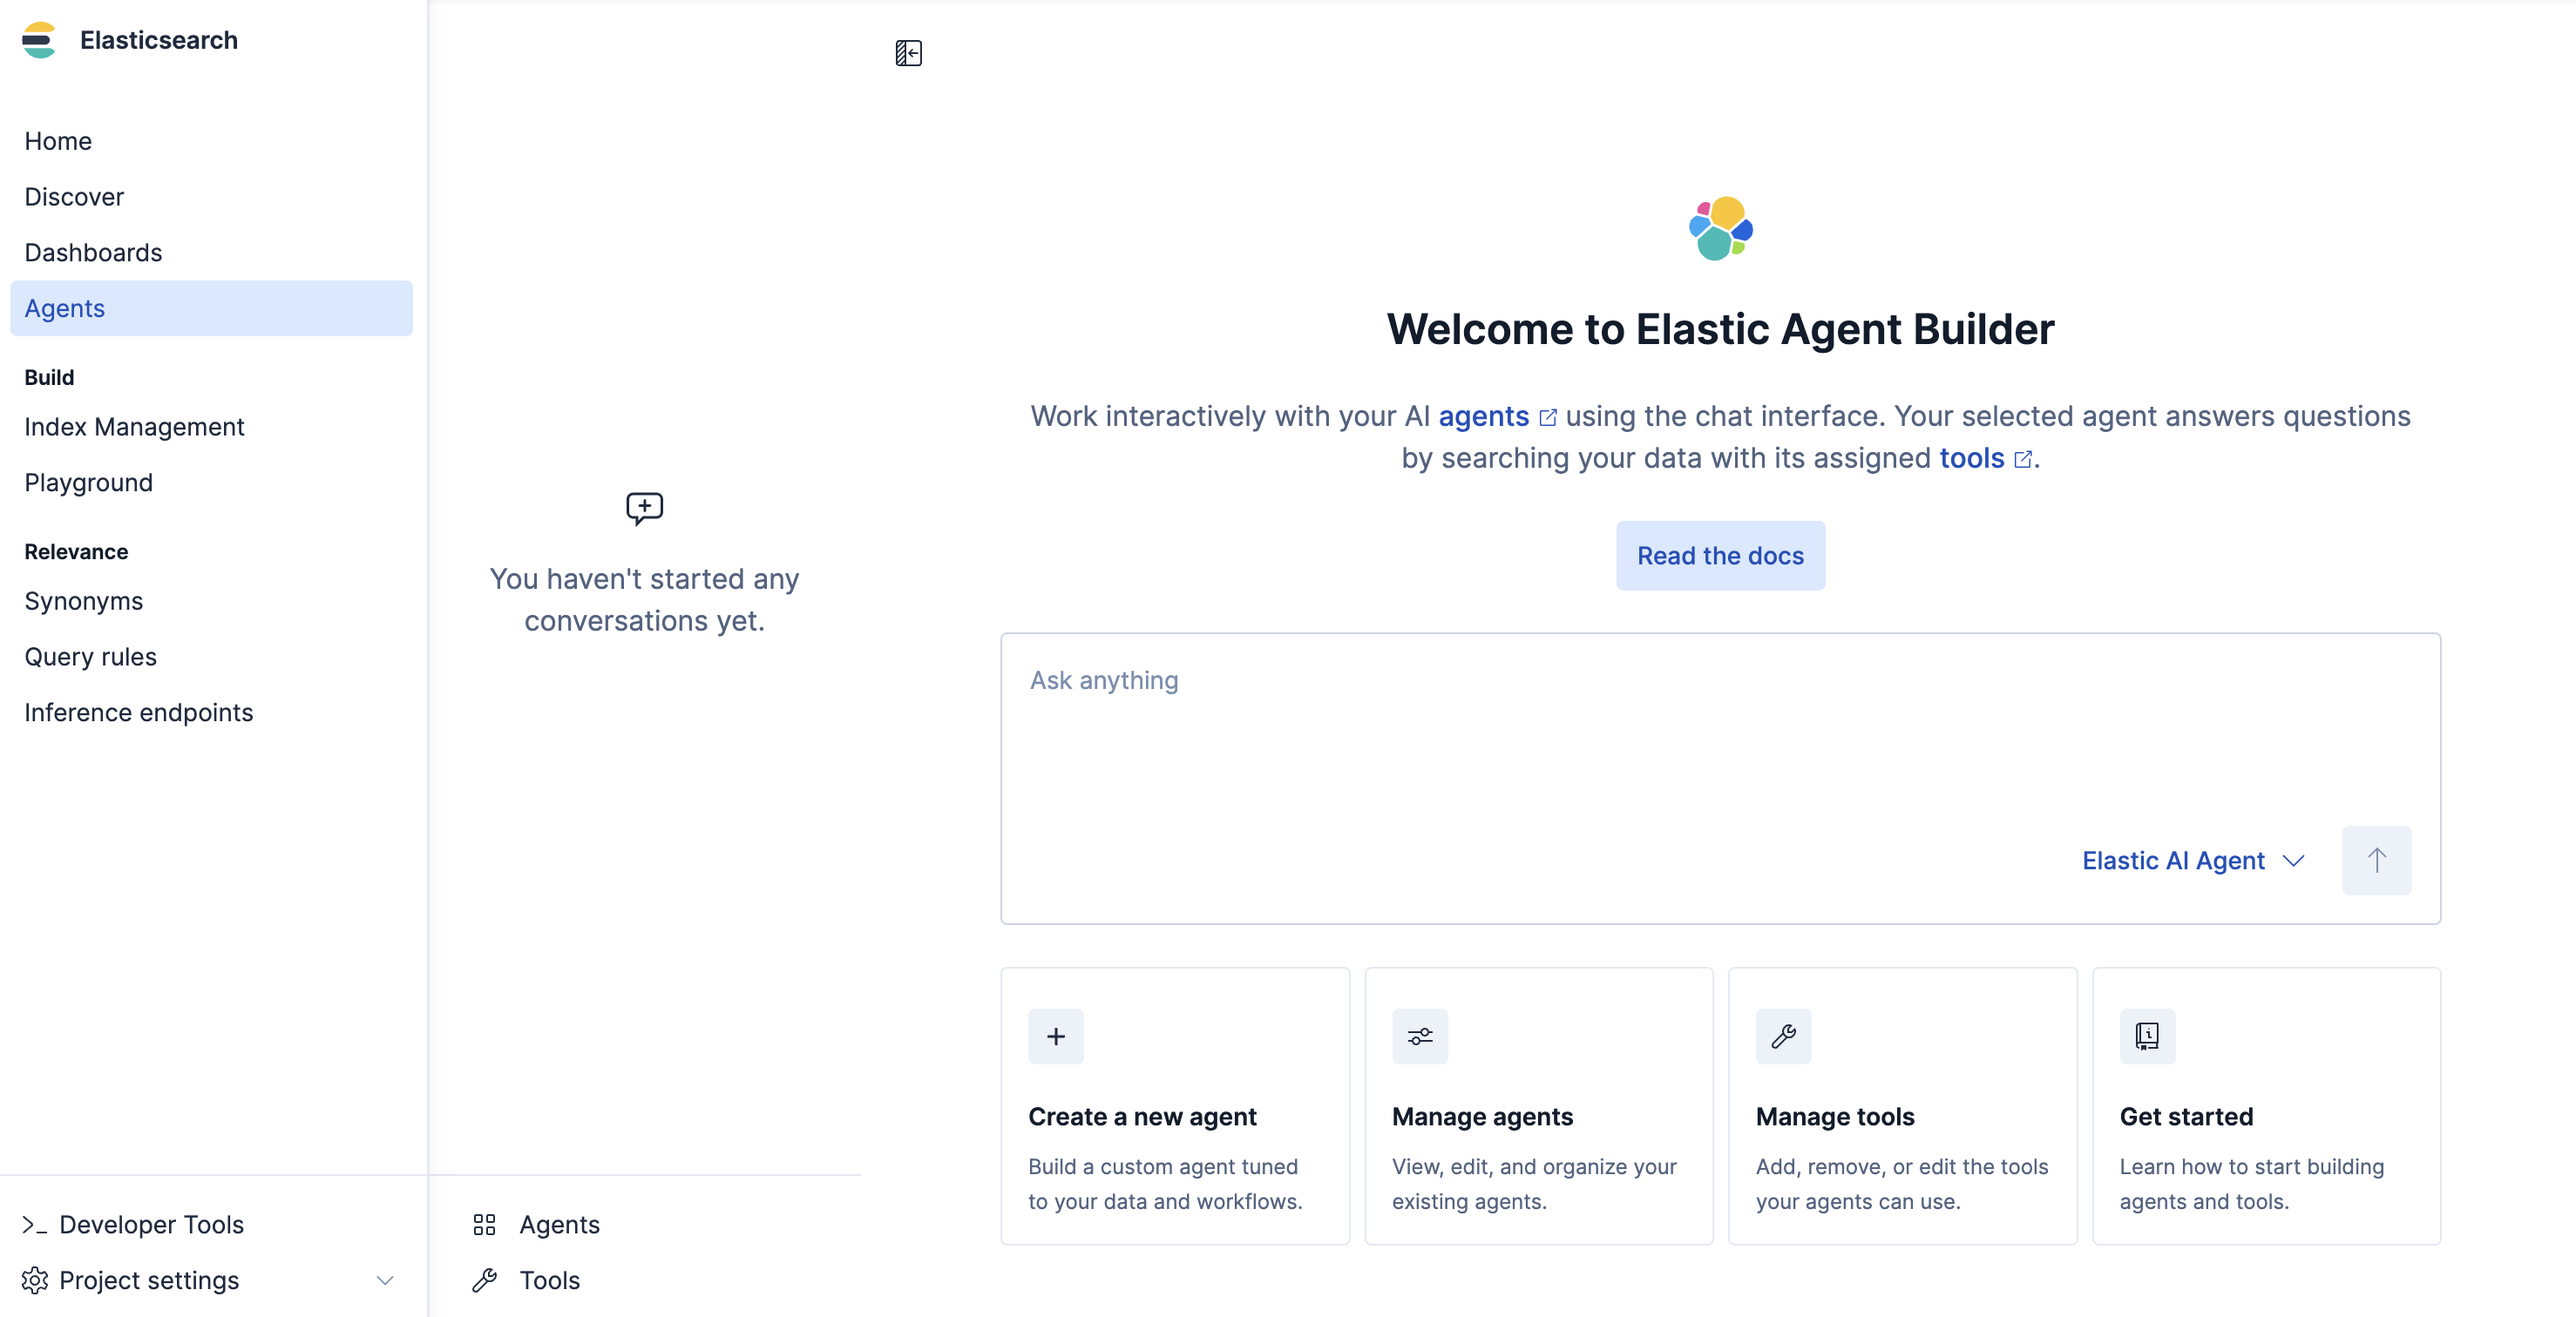
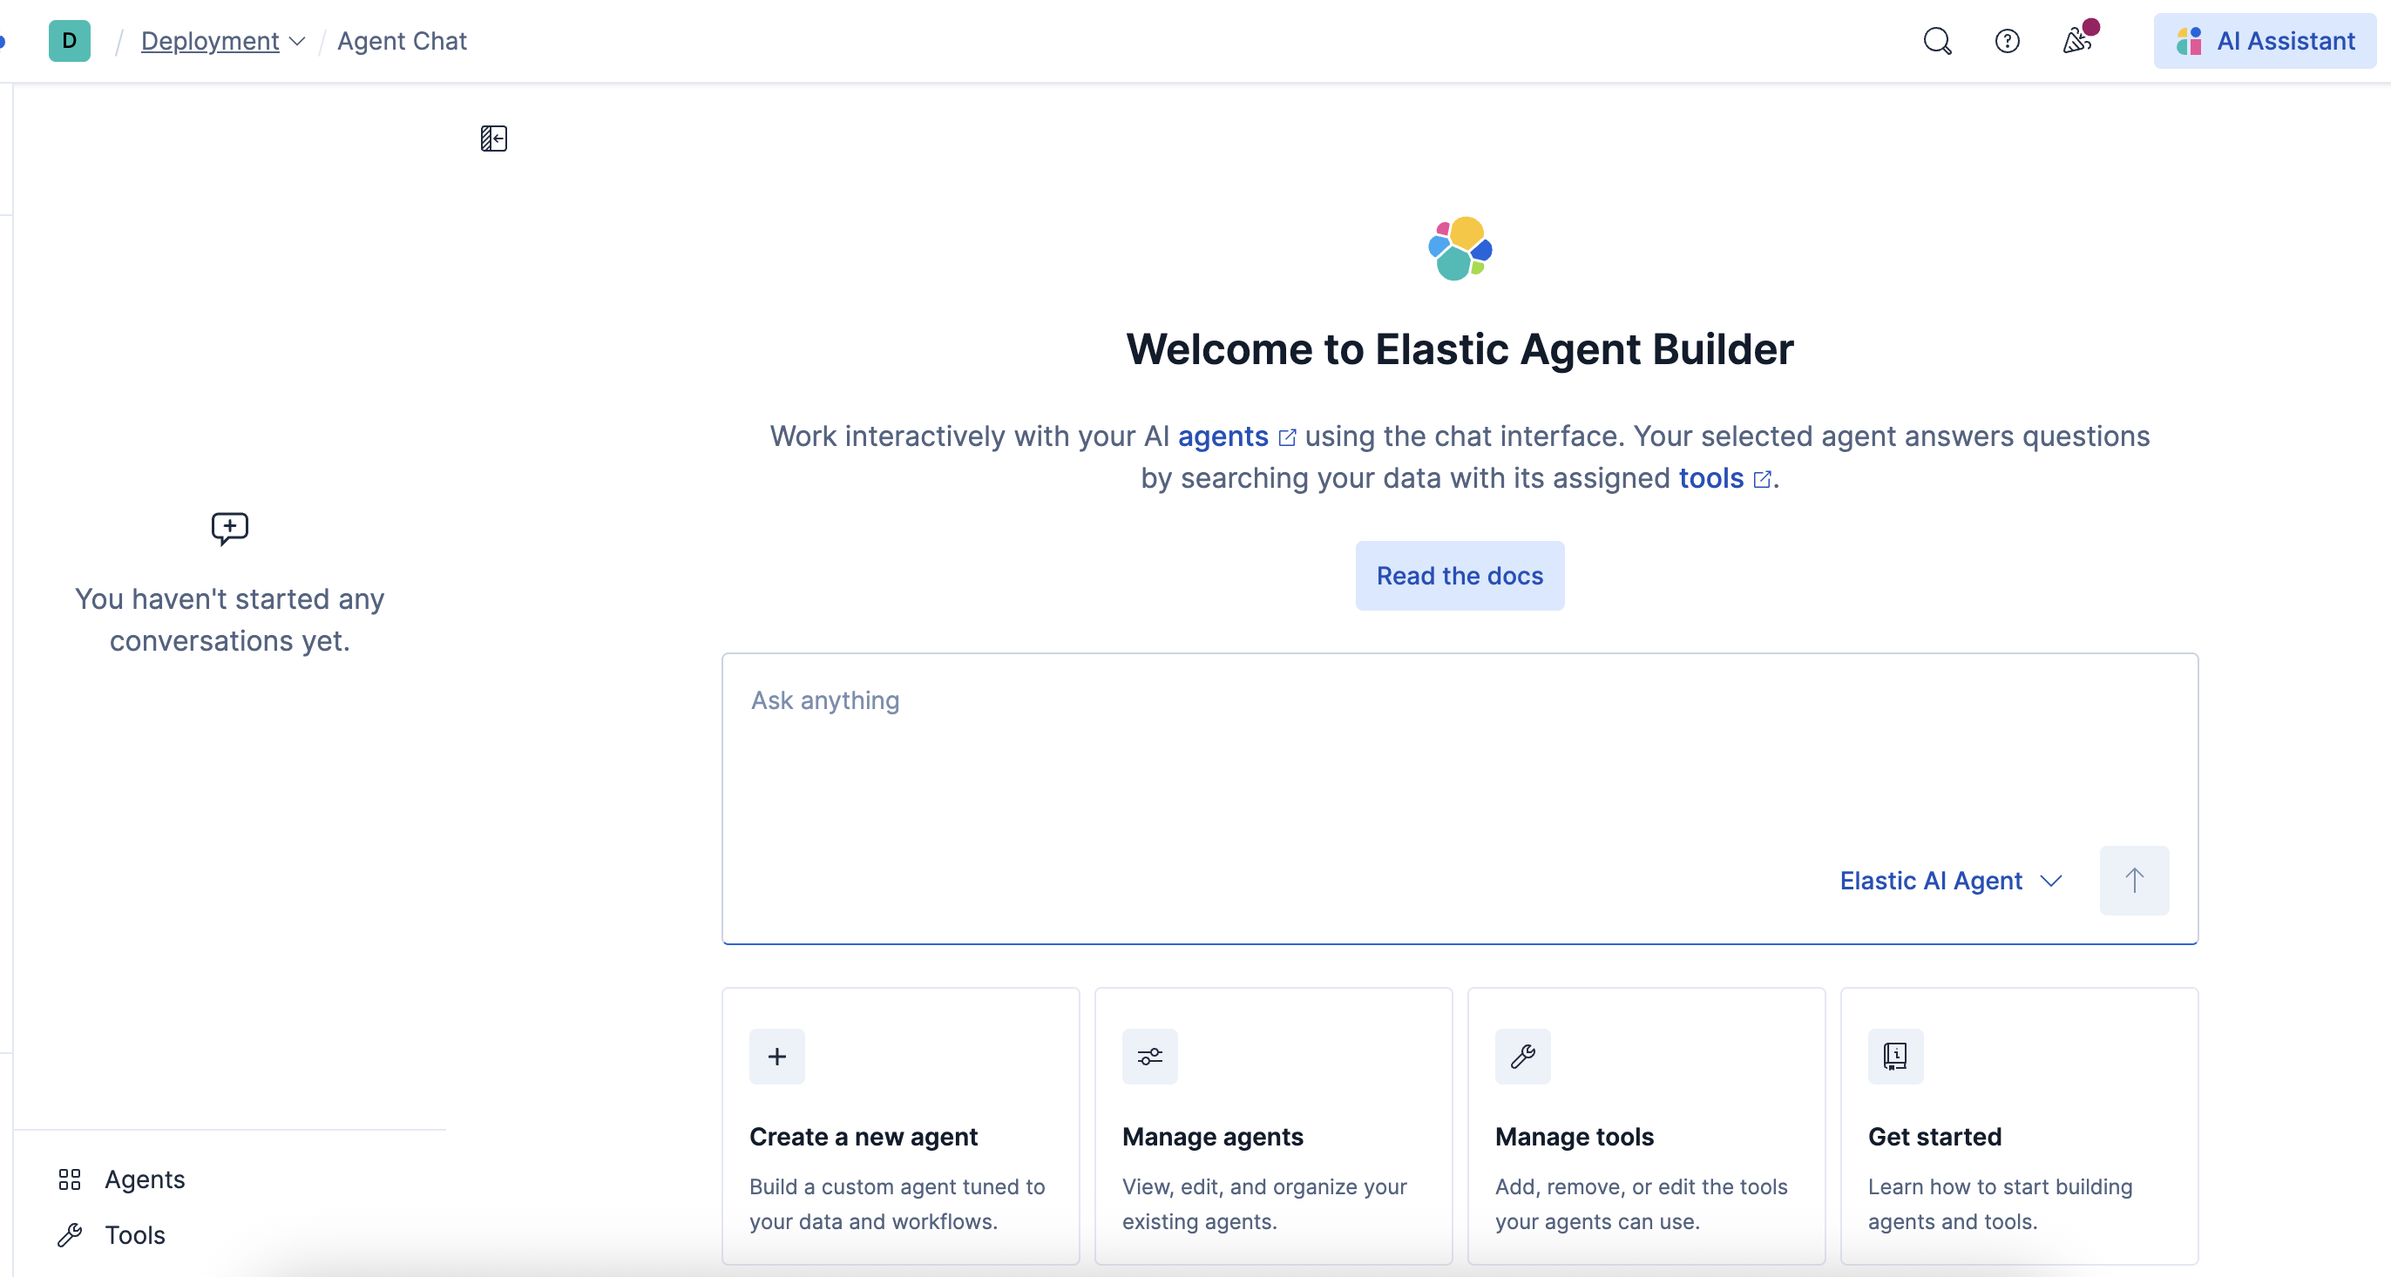
update screenshots and minor cleanup (#3468)
Linked to: https://github.com/elastic/docs-content/issues/3277
This PR only works on the Agent builder docs:
Updates screenshots for 9.2 nav
Does minor cleanup

diff --git a/solutions/search/agent-builder/tools.md b/solutions/search/agent-builder/tools.md
@@ -68,8 +68,8 @@ Tool namespacing helps organize and identify tools by their source. Built-in too
 
 You can extend the built-in tool catalog with your own custom tool definitions. Custom tools offer flexibility in how they interact with your data:
 
-- **[Index search tools](tools/index-search-tools.md)**: Define tools that are scoped to a specific index or pattern, allowing the LLM to decide how to query those indices based on the user's request
-- **[ES|QL tools](tools/esql-tools.md)**: Define tools with explicit {{esql}} queries for precise, pre-defined data retrieval operations
+- **[Index search tools](tools/index-search-tools.md)**: Define tools that are scoped to a specific index or pattern, allowing the LLM to decide how to query those indices based on the user's request.
+- **[ES|QL tools](tools/esql-tools.md)**: Define tools with explicit {{esql}} queries for precise, pre-defined data retrieval operations.
 
 
 This flexibility allows you to create tools that match your specific use cases and data access patterns.
@@ -100,8 +100,8 @@ Providing clear, descriptive parameter names and descriptions helps agents prope
 
 You can create custom tools to help agents interact with your data in specific ways. This section covers how to create and test tools in the UI
 
-1. Navigate to the **Tools** page in Kibana
-2. Click **New tool**
+1. Navigate to the **Tools** section on the **Agents** page in Kibana.
+2. Click **New tool**.
 
   :::{image} images/new-tool-button.png
   :alt: New tool button for creating custom tools
@@ -109,14 +109,14 @@ You can create custom tools to help agents interact with your data in specific w
   :::
 
 4. Fill in the required fields:
-   - **Name**: Enter a descriptive name for your tool
-   - **Description**: Write a clear explanation of what the tool does and when it should be used
-   - **Tool type**: Choose either **[{{esql}}](tools/esql-tools.md)** or **[Index search](tools/index-search-tools.md)**
-   - **Parameters**: For tools with {{esql}} queries, define any parameters your query needs
-   - **Tags**: (Optional) Add labels to categorize and organize your tools
+   - **Name**: Enter a descriptive name for your tool.
+   - **Description**: Write a clear explanation of what the tool does and when it should be used.
+   - **Tool type**: Choose either **[{{esql}}](tools/esql-tools.md)** or **[Index search](tools/index-search-tools.md).**
+   - **Parameters**: For tools with {{esql}} queries, define any parameters your query needs.
+   - **Tags**: (Optional) Add labels to categorize and organize your tools.
 5. Choose how to save your tool:
-   - Click **Save** to create the tool
-   - Click **Save and test** to create the tool and immediately open the testing interface
+   - Select **Save** to create the tool.
+   - Select **Save and test** to create the tool and immediately open the testing interface
 
     :::{image} images/tool-save-save-and-test-buttons.png
     :alt: Save and Save and test buttons for tool creation
@@ -127,34 +127,34 @@ You can create custom tools to help agents interact with your data in specific w
 
 Before assigning tools to agents, verify they work correctly by testing them. Testing helps ensure your tool returns useful results and handles parameters correctly.
 
-If you didn't click **Save and test** immediately:
+If you didn't select **Save and test** immediately:
 
-1. Find your tool in the Tools list
-2. Click the test icon (play button) associated with your tool
+1. Find your tool in the Tools list.
+2. Click the test icon (play button) associated with your tool.
 
 :::{image} images/test-icon.png
 :alt: Test icon (play button) for running tool tests
 :width: 150px
 :::
 3. Enter test data based on your tool type:
-   - **For {{esql}} tools with parameters**: Enter realistic test values for each parameter in the **Inputs** section
-   - **For Index search tools**: Enter a sample search query to test the search functionality
-4. Click **Submit** to run the test
+   - **For {{esql}} tools with parameters**: Enter realistic test values for each parameter in the **Inputs** section.
+   - **For Index search tools**: Enter a sample search query to test the search functionality.
+4. Select **Submit** to run the test.
 5. Review the Response section to verify:
-   - The tool executes without errors
-   - Results are returned in the expected format
-   - The data matches your expectations
-7. Now you can [assign the tool to an agent](#assign-tools-to-agents)
+   - The tool executes without errors.
+   - Results are returned in the expected format.
+   - The data matches your expectations.
+6. Now you can [assign the tool to an agent](#assign-tools-to-agents).
 
 ### Best practices
 
-1. **Write descriptive names**: Use clear, action-oriented names
-2. **Provide detailed descriptions**: Explain when and how the tool should be used
-3. **Limit scope**: Focus each tool on a specific task rather than creating overly complex tools
-4. **Use meaningful parameter names**: Choose names that clearly indicate what the parameter represents
-5. **Add comprehensive parameter descriptions**: Help the agent understand what values to use
-6. **Include `LIMIT` clauses in {{esql}} queries**: Prevent returning excessive results
-7. **Use appropriate tags**: Add relevant tags to make tools easier to find and organize
+1. **Write descriptive names**: Use clear, action-oriented names.
+2. **Provide detailed descriptions**: Explain when and how the tool should be used.
+3. **Limit scope**: Focus each tool on a specific task rather than creating overly complex tools.
+4. **Use meaningful parameter names**: Choose names that clearly indicate what the parameter represents.
+5. **Add comprehensive parameter descriptions**: Help the agent understand what values to use.
+6. **Include `LIMIT` clauses in {{esql}} queries**: Prevent returning excessive results.
+7. **Use appropriate tags**: Add relevant tags to make tools easier to find and organize.
 8. **Limit tool count**: More tools are not always better. Try to keep each agent focused with a limited number of relevant tools.
 
 ## Manage tools
@@ -179,17 +179,17 @@ Access the complete list of available tools from the **Tools** page in Kibana. T
 ### Assign tools to agents
 
 Tools must be assigned to agents before they can be used:
-1. Navigate to the agent configuration page
-2. Select the **Tools** tab
-3. Add the desired tools to the agent
-4. Save the agent configuration
+1. Navigate to the agent configuration page.
+2. Select the **Tools** tab.
+3. Add the desired tools to the agent.
+4. Save the agent configuration.
 
 ### Update and delete tools
 
 Custom tools can be modified or removed as needed:
-1. From the Tools page, find the tool you want to modify
-2. Click the edit icon to update the tool or the delete icon to remove it
-3. For updates, modify the tool properties and save your changes
+1. From the Tools page, find the tool you want to modify.
+2. Select the edit icon to update the tool or the delete icon to remove it.
+3. For updates, modify the tool properties and save your changes.
 
 Note that built-in tools cannot be modified or deleted.
 

diff --git a/solutions/search/agent-builder/agent-builder-agents.md b/solutions/search/agent-builder/agent-builder-agents.md
@@ -32,11 +32,11 @@ The default `Elastic AI Agent` is immutable and cannot be edited. To customize a
 
 The **Agents** page provides a centralized view of all your agents. From this page you can:
 
-- View all your agents with their names and labels
-- Search for specific agents using the search bar
-- Filter agents by labels using the **Labels** dropdown
-- Create new agents using the **+ New agent** button
-- Start chatting with an agent or perform other actions
+- View all your agents with their names and labels.
+- Search for specific agents using the search bar.
+- Filter agents by labels using the **Labels** dropdown.
+- Create new agents using the **+ New agent** button.
+- Start chatting with an agent or perform other actions:
     - **Elastic AI Agent**: you can **chat** or **clone** the default agent using the chat or clone buttons. The default agent cannot be edited directly.
       :::{image} images/chat-and-clone-buttons.png
       :alt: Chat with agent and clone agent buttons
@@ -76,13 +76,13 @@ Select the **New agent** button to being creating a new agent.
 Configure the essential agent settings in the **settings** tab:
 
 1. Enter an **Agent ID**, a unique identifier for reference in code.
-1. Add **Custom instructions**.<br><br>Custom instructions define the agent's personality and determine how it interacts with users and perform tasks.
+2. Add **Custom instructions**.<br><br>Custom instructions define the agent's personality and determine how it interacts with users and performs tasks.
 
     :::{note}
     Agent Builder adds your custom instructions to the system prompt to define the agent's behavior. The system prompt enables core features like visualization and citations.
     :::
-1. Set the **Display name** for users.
-1. Add a **Display description** to explain the agent's purpose.
+3. Set the **Display name** for users.
+4. Add a **Display description** to explain the agent's purpose.
 
 ::::
 
@@ -98,8 +98,8 @@ Select the combination of built-in and custom tools available to the agent, base
 
 Optionally customize the agent's appearance and organization:
 
-- Add **Labels** to organize your agents
-- Select an **Avatar color** and **Avatar symbol** to help visually distinguish the agent
+- Add **Labels** to organize your agents.
+- Select an **Avatar color** and **Avatar symbol** to help visually distinguish the agent.
 
 ::::
 

diff --git a/solutions/search/agent-builder/programmatic-access.md b/solutions/search/agent-builder/programmatic-access.md
@@ -22,7 +22,7 @@ These interfaces enable you to build integrations with other applications and ex
 Most users will probably want to integrate with Agent Builder using MCP or A2A, but you can also work programmatically with tools, agents, and conversations using the Kibana APIs.
 :::
 
-- **[MCP server](mcp-server.md)**: A standardized interface that allows external MCP clients (such as Claude Desktop or Cursor) to access {{agent-builder}} tools
-- **[A2A server](a2a-server.md)**: Agent-to-agent communication endpoints that follow the A2A protocol specification, enabling external A2A clients to interact with {{agent-builder}} agents
-- **[Kibana API](kibana-api.md)**: RESTful APIs for working with {{agent-builder}} programmatically
+- **[MCP server](mcp-server.md)**: A standardized interface that allows external MCP clients (such as Claude Desktop or Cursor) to access {{agent-builder}} tools.
+- **[A2A server](a2a-server.md)**: Agent-to-agent communication endpoints that follow the A2A protocol specification, enabling external A2A clients to interact with {{agent-builder}} agents.
+- **[Kibana API](kibana-api.md)**: RESTful APIs for working with {{agent-builder}} programmatically.
 

diff --git a/solutions/search/agent-builder/get-started.md b/solutions/search/agent-builder/get-started.md
@@ -19,7 +19,7 @@ Refer to the [overview page](../elastic-agent-builder.md) for the full list of A
 :::
 % TODO: Remove this tip when unhide pages
 
-Learn how get started by enabling the {{agent-builder}} features and begin chatting with your data.
+Learn how to get started by enabling the {{agent-builder}} features and begin chatting with your data.
 
 :::::{stepper}
 ::::{step} Set up an Elastic deployment
@@ -39,10 +39,9 @@ You can set up a new [space](/deploy-manage/manage-spaces.md) to use the solutio
 
 You can enable the features using the UI:
 
-1. Navigate to **Stack Management > Settings**
-2. Find **AI > Agent Builder** in the left-hand navigation
-3. Toggle **{{agent-builder}}** to on
-4. Select **Save changes**
+1. Navigate to **Agent Builder** under **AI** using the navigation menu or the [global search field](/explore-analyze/find-and-organize/find-apps-and-objects.md).
+2. Toggle **{{agent-builder}}** to on.
+3. Select **Save changes**.
 
 Refresh the browser page and find **Agents** in the navigation menu to begin using the feature.
 You can also search for **Agent Builder** in the [global search bar](/explore-analyze/find-and-organize/find-apps-and-objects.md).
